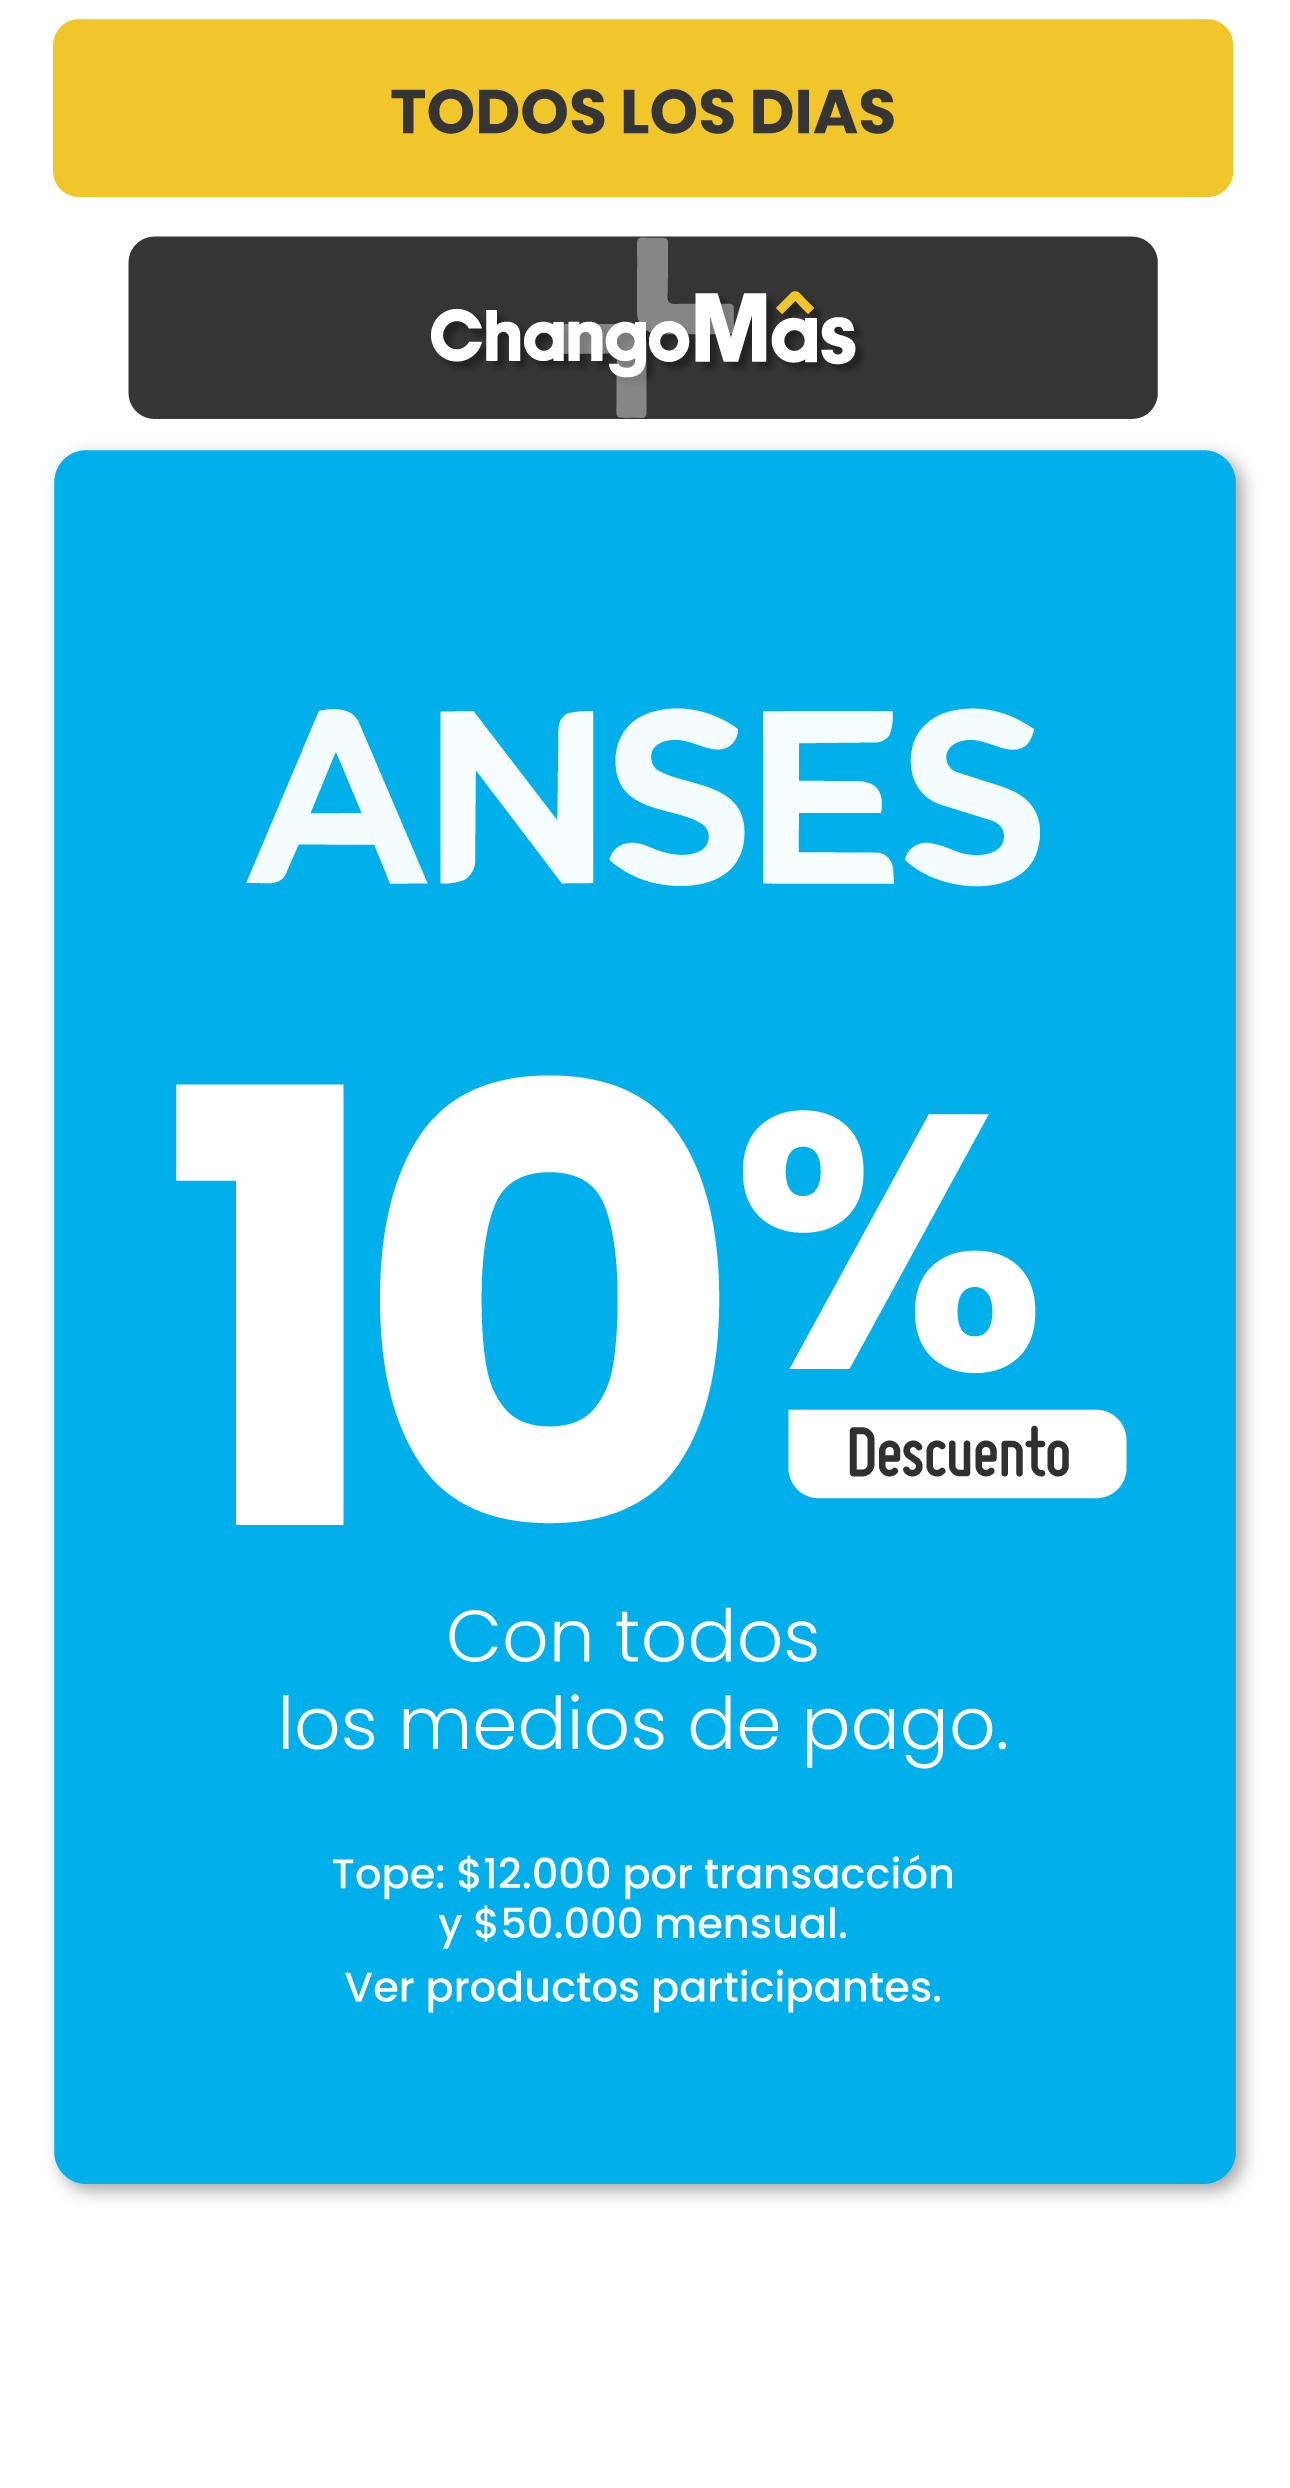
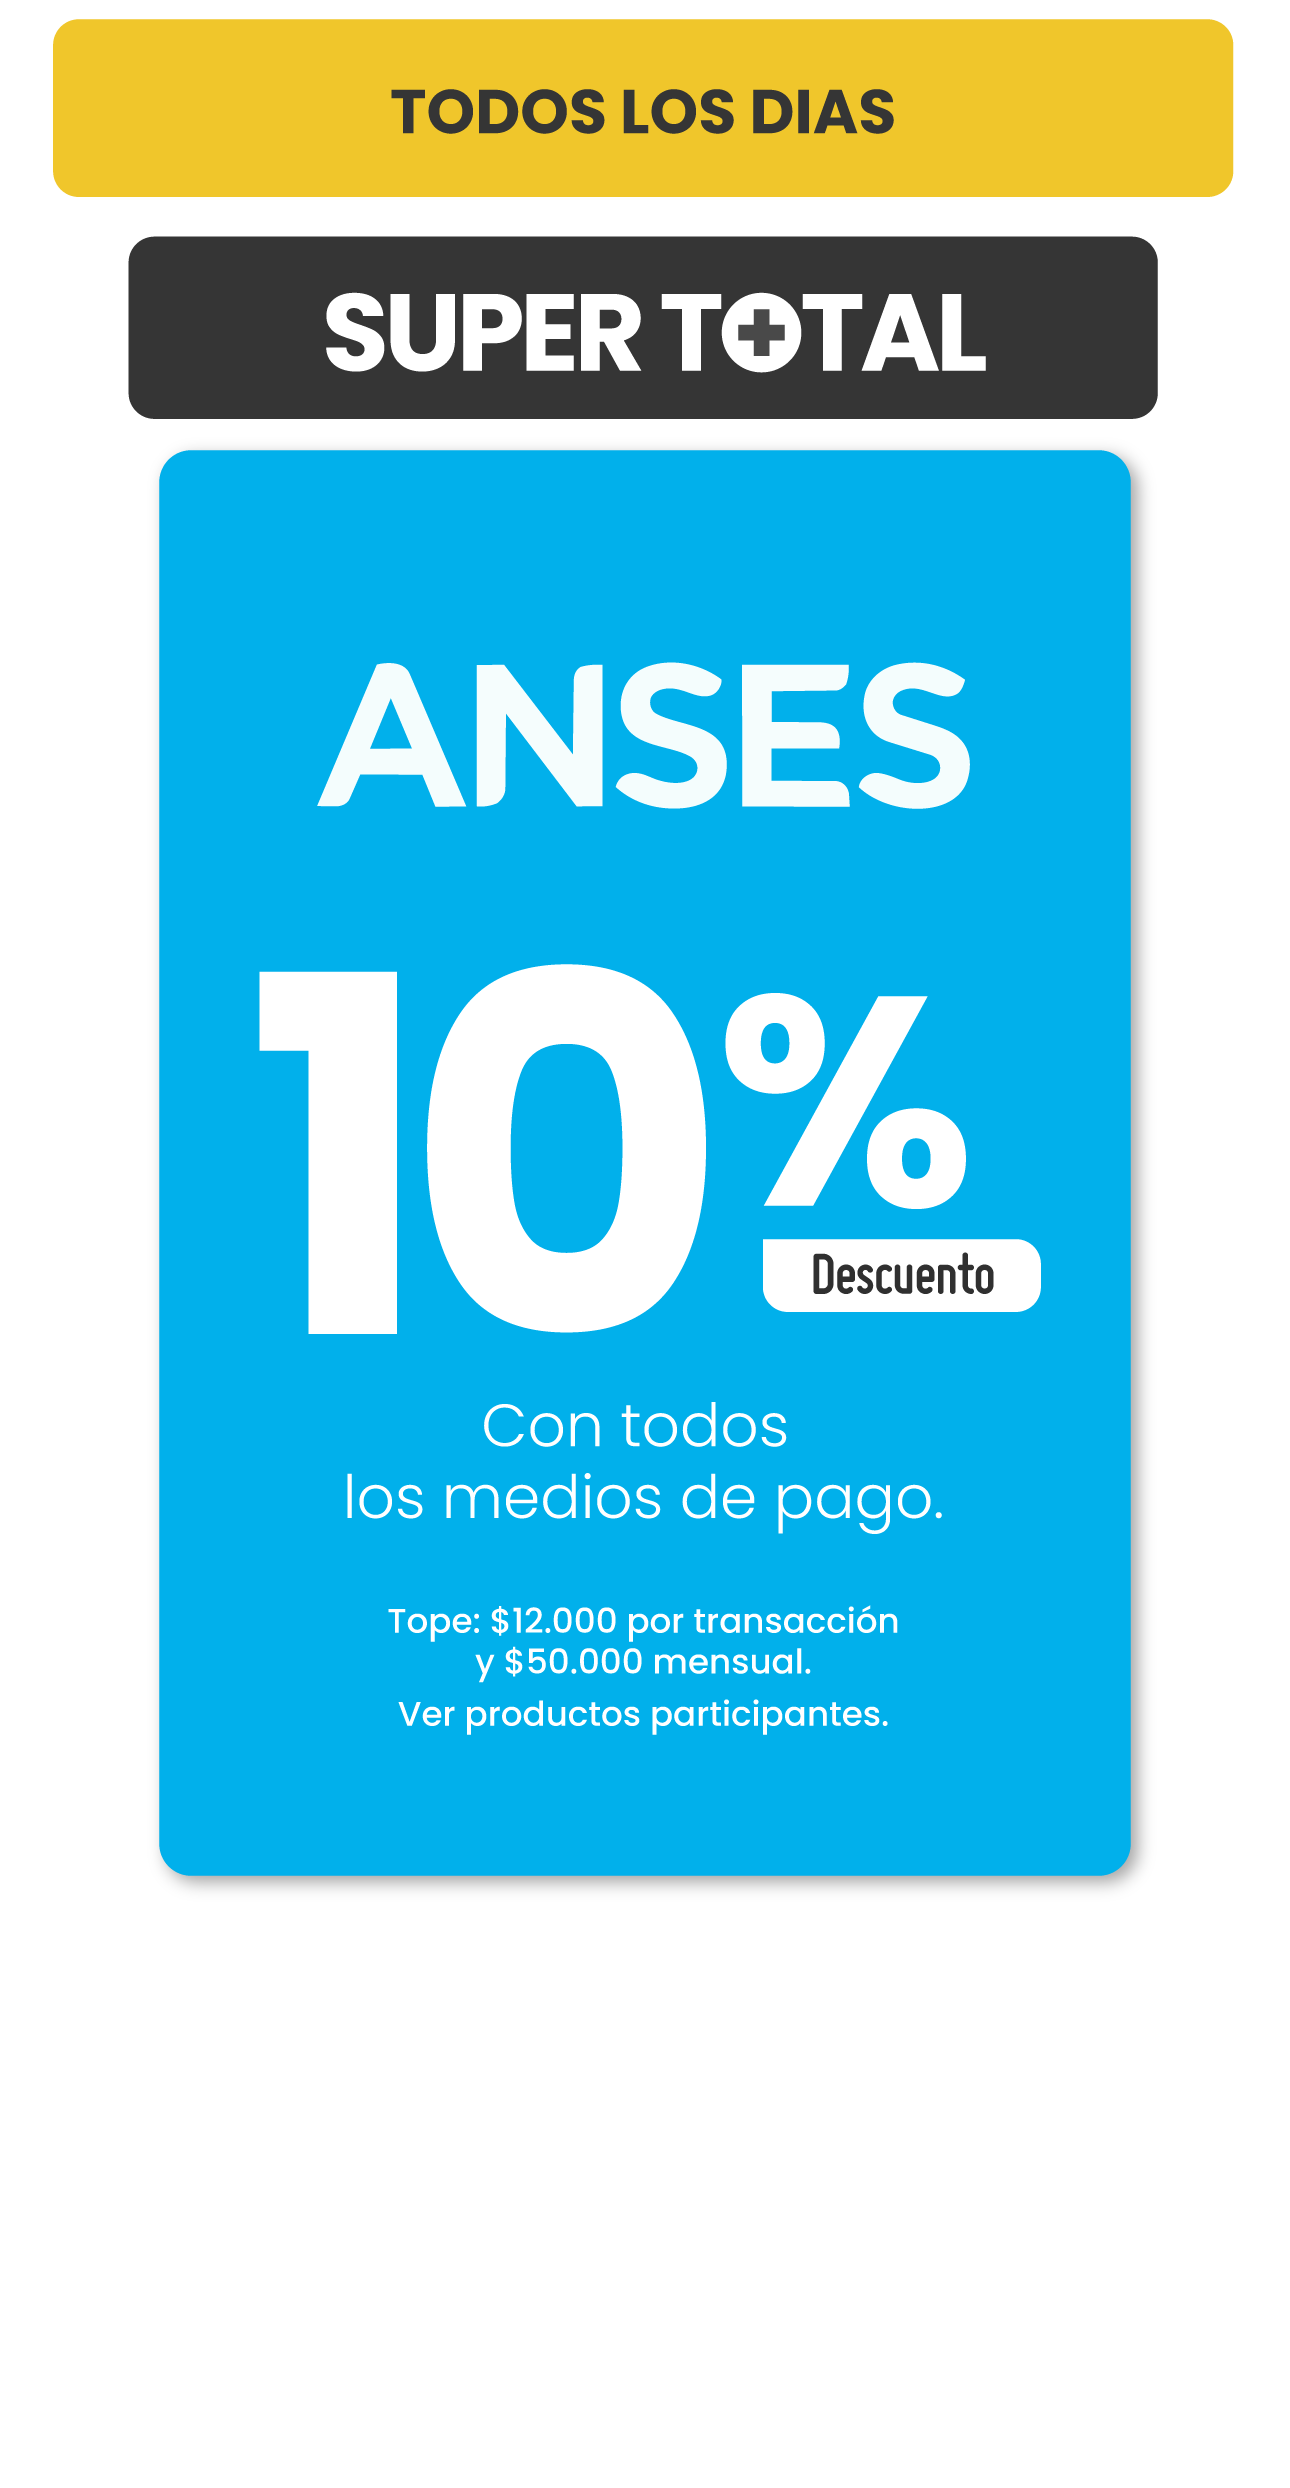
Quitar contraseña de la sección Tomas y actualizar recursos

diff --git a/baby-tomas-case.html b/baby-tomas-case.html
@@ -221,7 +221,7 @@
           </div>
           <div class="hero-info-box bottom-box">
             <h3 style="font-size: 2rem; color: var(--accent-1); margin-bottom: 15px; font-family: 'Comfortaa', cursive;">Caso de Éxito</h3>
-            <p>Optimización completa de flujos de producción para la campaña del Mes de la Niñez en ChangoMás, logrando un impacto visual sin precedentes con tiempos récord.</p>
+            <p>Optimización completa de flujos de producción para la campaña del Mes de la Niñez, logrando un impacto visual sin precedentes con tiempos récord.</p>
             <div class="tags-container">
               <span class="hero-tag">AI Video</span>
               <span class="hero-tag">UI/UX</span>
@@ -577,10 +577,10 @@
                 <div class="carousel-window">
                   <div class="track-zoom-wrapper">
                     <div class="carousel-track" id="track-tradicional">
-                      <img src="imagenes/Tomas/tradicional/tradicional 1.jpeg" alt="Catálogo Tradicional 1">
-                      <img src="imagenes/Tomas/tradicional/tradicional 2.jpeg" alt="Catálogo Tradicional 2">
-                      <img src="imagenes/Tomas/tradicional/tradicional 3.jpeg" alt="Catálogo Tradicional 3">
-                      <img src="imagenes/Tomas/tradicional/tradicional 4.jpeg" alt="Catálogo Tradicional 4">
+                      <img src="imagenes/Tomas/tradicional/tradicional 1.png" alt="Catálogo Tradicional 1">
+                      <img src="imagenes/Tomas/tradicional/tradicional 2.png" alt="Catálogo Tradicional 2">
+                      <img src="imagenes/Tomas/tradicional/tradicional 3.png" alt="Catálogo Tradicional 3">
+                      <img src="imagenes/Tomas/tradicional/tradicional 4.png" alt="Catálogo Tradicional 4">
                     </div>
                   </div>
                 </div>
@@ -692,9 +692,9 @@
                               <i class="fa-regular fa-star" style="font-size: 0.9rem;"></i>
                             </div>
                             <div style="flex: 1; min-width: 0; display: flex; gap: 10px; align-items: baseline;">
-                              <span style="color: #fff; font-weight: 700; font-size: 0.9rem; width: 110px; flex-shrink: 0; white-space: nowrap; overflow: hidden; text-overflow: ellipsis;">ChangoMás</span>
+                              <span style="color: #fff; font-weight: 700; font-size: 0.9rem; width: 110px; flex-shrink: 0; white-space: nowrap; overflow: hidden; text-overflow: ellipsis;">SuperTotal</span>
                               <div style="flex: 1; white-space: nowrap; overflow: hidden; text-overflow: ellipsis; font-size: 0.85rem;">
-                                <span style="color: #fff; font-weight: 700;">Planificá tu semana para ahorrar Mâs</span>
+                                <span style="color: #fff; font-weight: 700;">Planificá tu semana para ahorrar</span>
                                 <span style="color: #718096;"> — Todos los lunes de junio pagando desde App MODO o App BNA+...</span>
                               </div>
                             </div>
@@ -709,7 +709,7 @@
                               <div style="display: flex; gap: 10px; align-items: center;">
                                 <div style="width: 32px; height: 32px; background: #e53e3e; border-radius: 50%; display: flex; align-items: center; justify-content: center; color: #fff; font-weight: bold; font-size: 0.85rem;">C</div>
                                 <div>
-                                  <div style="font-size: 0.85rem; color: #fff;"><strong style="font-weight: 500;">ChangoMás</strong> <span style="color: #718096; font-size: 0.75rem;">&lt;info@changomas.com.ar&gt;</span></div>
+                                  <div style="font-size: 0.85rem; color: #fff;"><strong style="font-weight: 500;">SuperTotal</strong> <span style="color: #718096; font-size: 0.75rem;">&lt;info@SuperTotal.com.ar&gt;</span></div>
                                   <div style="font-size: 0.75rem; color: #718096;">para mí</div>
                                 </div>
                               </div>
@@ -718,7 +718,7 @@
                           </div>
                           
                           <div class="email-body-content" style="flex: 1; overflow-y: auto; background: #fff; padding: 0; display: block;">
-                            <img src="imagenes/Tomas/tradicional/mailing-junio.jpg" alt="Mailing Real ChangoMás" style="width: 100%; height: auto; display: block; margin: 0 auto;">
+                            <img src="imagenes/Tomas/tradicional/mailing-junio.jpg" alt="Mailing Real SuperTotal" style="width: 100%; height: auto; display: block; margin: 0 auto;">
                           </div>
                         </div>
 
@@ -772,7 +772,7 @@
                               <i class="fa-solid fa-star" style="font-size: 0.9rem;"></i>
                             </div>
                             <div style="flex: 1; min-width: 0; display: flex; gap: 10px; align-items: baseline;">
-                              <span style="color: #fff; font-weight: 700; font-size: 0.9rem; width: 110px; flex-shrink: 0;">ChangoMás</span>
+                              <span style="color: #fff; font-weight: 700; font-size: 0.9rem; width: 110px; flex-shrink: 0;">SuperTotal</span>
                               <div style="flex: 1; white-space: nowrap; overflow: hidden; text-overflow: ellipsis; font-size: 0.85rem;">
                                 <span style="color: #fff; font-weight: 700;">🚀 Tu semana de ahorros (Nueva Vista)</span>
                                 <span style="color: #718096;"> — Descubrí los beneficios de cada día deslizando...</span>
@@ -790,7 +790,7 @@
                               <div style="display: flex; gap: 10px; align-items: center;">
                                 <div style="width: 32px; height: 32px; background: #00d1ff; border-radius: 50%; display: flex; align-items: center; justify-content: center; color: #000; font-weight: bold; font-size: 0.85rem;">C</div>
                                 <div>
-                                  <div style="font-size: 0.85rem; color: #fff;"><strong style="font-weight: 500;">ChangoMás</strong> <span style="color: #718096; font-size: 0.75rem;">&lt;info@changomas.com.ar&gt;</span></div>
+                                  <div style="font-size: 0.85rem; color: #fff;"><strong style="font-weight: 500;">SuperTotal</strong> <span style="color: #718096; font-size: 0.75rem;">&lt;info@SuperTotal.com.ar&gt;</span></div>
                                   <div style="font-size: 0.75rem; color: #718096;">para mí</div>
                                 </div>
                               </div>
@@ -865,8 +865,8 @@
 
                             <!-- Legals -->
                             <div style="padding: 0 20px 20px 20px; color: #718096; font-size: 0.65rem; line-height: 1.5; text-align: justify; font-family: 'Roboto', sans-serif;">
-                              <p style="margin-bottom: 8px;">*PROMOCIÓN VÁLIDA DEL 01/06/2026 AL 30/06/2026. EXCLUSIVO PARA COMPRAS REALIZADAS EN SUCURSALES CHANGOMÁS Y MÁS ONLINE PAGANDO CON APP MODO O APP BNA+ SEGÚN CORRESPONDA AL DÍA DE LA SEMANA. EL REINTEGRO SE VERÁ REFLEJADO EN ESTADO DE CUENTA HASTA 60 DÍAS POSTERIORES.</p>
-                              <p style="margin-bottom: 8px;">NO ACUMULABLE CON OTRAS PROMOCIONES VIGENTES. QUEDAN EXCLUIDAS LAS COMPRAS DE ELECTRODOMÉSTICOS, CARNES Y PRODUCTOS ACORDADOS POR EL GOBIERNO. PARA MÁS INFO CONSULTE EN WWW.CHANGOMAS.COM.AR/PROMOCIONES.</p>
+                              <p style="margin-bottom: 8px;">*PROMOCIÓN VÁLIDA DEL 01/06/2026 AL 30/06/2026. EXCLUSIVO PARA COMPRAS REALIZADAS EN SUCURSALES SuperTotal PAGANDO CON APP MODO O APP BNA+ SEGÚN CORRESPONDA AL DÍA DE LA SEMANA. EL REINTEGRO SE VERÁ REFLEJADO EN ESTADO DE CUENTA HASTA 60 DÍAS POSTERIORES.</p>
+                              <p style="margin-bottom: 8px;">NO ACUMULABLE CON OTRAS PROMOCIONES VIGENTES. QUEDAN EXCLUIDAS LAS COMPRAS DE ELECTRODOMÉSTICOS, CARNES Y PRODUCTOS ACORDADOS POR EL GOBIERNO. PARA MÁS INFO CONSULTE EN WWW.SuperTotal.COM.AR/PROMOCIONES.</p>
                               <p>Si no deseás recibir más este tipo de comunicaciones, podés <a href="#" style="color: #00d1ff; text-decoration: none;">desuscribirte aquí</a>.</p>
                             </div>
 

diff --git a/index.html b/index.html
@@ -84,7 +84,7 @@
         <p class="sobre-mi-footer">
           Concibo la tecnología no como un fin, sino como el motor para escalar la creatividad.
           En un mercado que exige agilidad, mi enfoque garantiza resultados consistentes, operaciones
-          optimizadas y un estándar visual <span style="cursor: default; position: relative; z-index: 9999; pointer-events: auto;" onclick="event.stopPropagation(); desbloquearTomas()">premium</span>.
+          optimizadas y un estándar visual premium.
         </p>
       </div>
     </section>
@@ -1161,33 +1161,7 @@ El resultado: una portada que se convierte en la puerta de entrada a un universo
 
   <script src="script.js"></script>
 
-  <script>
-    // Ocultar la tarjeta desde el arranque
-    document.addEventListener("DOMContentLoaded", () => {
-      const tomasCard = document.querySelector('.baby-tomas-card');
-      if(tomasCard) {
-        tomasCard.parentElement.style.display = 'none';
-        // Le asignamos un ID dinámico al padre para llamarlo fácil después
-        tomasCard.parentElement.id = 'tarjeta-tomas-oculta';
-      }
-    });
 
-    // Función del Easter Egg
-    function desbloquearTomas() {
-      let clave = prompt("Acceso Restringido. Ingrese la clave operativa:");
-      
-      if (clave === "MKT2026") {
-        const tarjeta = document.getElementById('tarjeta-tomas-oculta');
-        if(tarjeta) {
-          tarjeta.style.display = 'block'; 
-          // Desplaza la vista hacia la tarjeta recién revelada
-          tarjeta.scrollIntoView({ behavior: 'smooth', block: 'center' });
-        }
-      } else if (clave !== null) {
-        alert("Clave incorrecta. Acceso denegado.");
-      }
-    }
-  </script>
 </body>
 
 </html>
